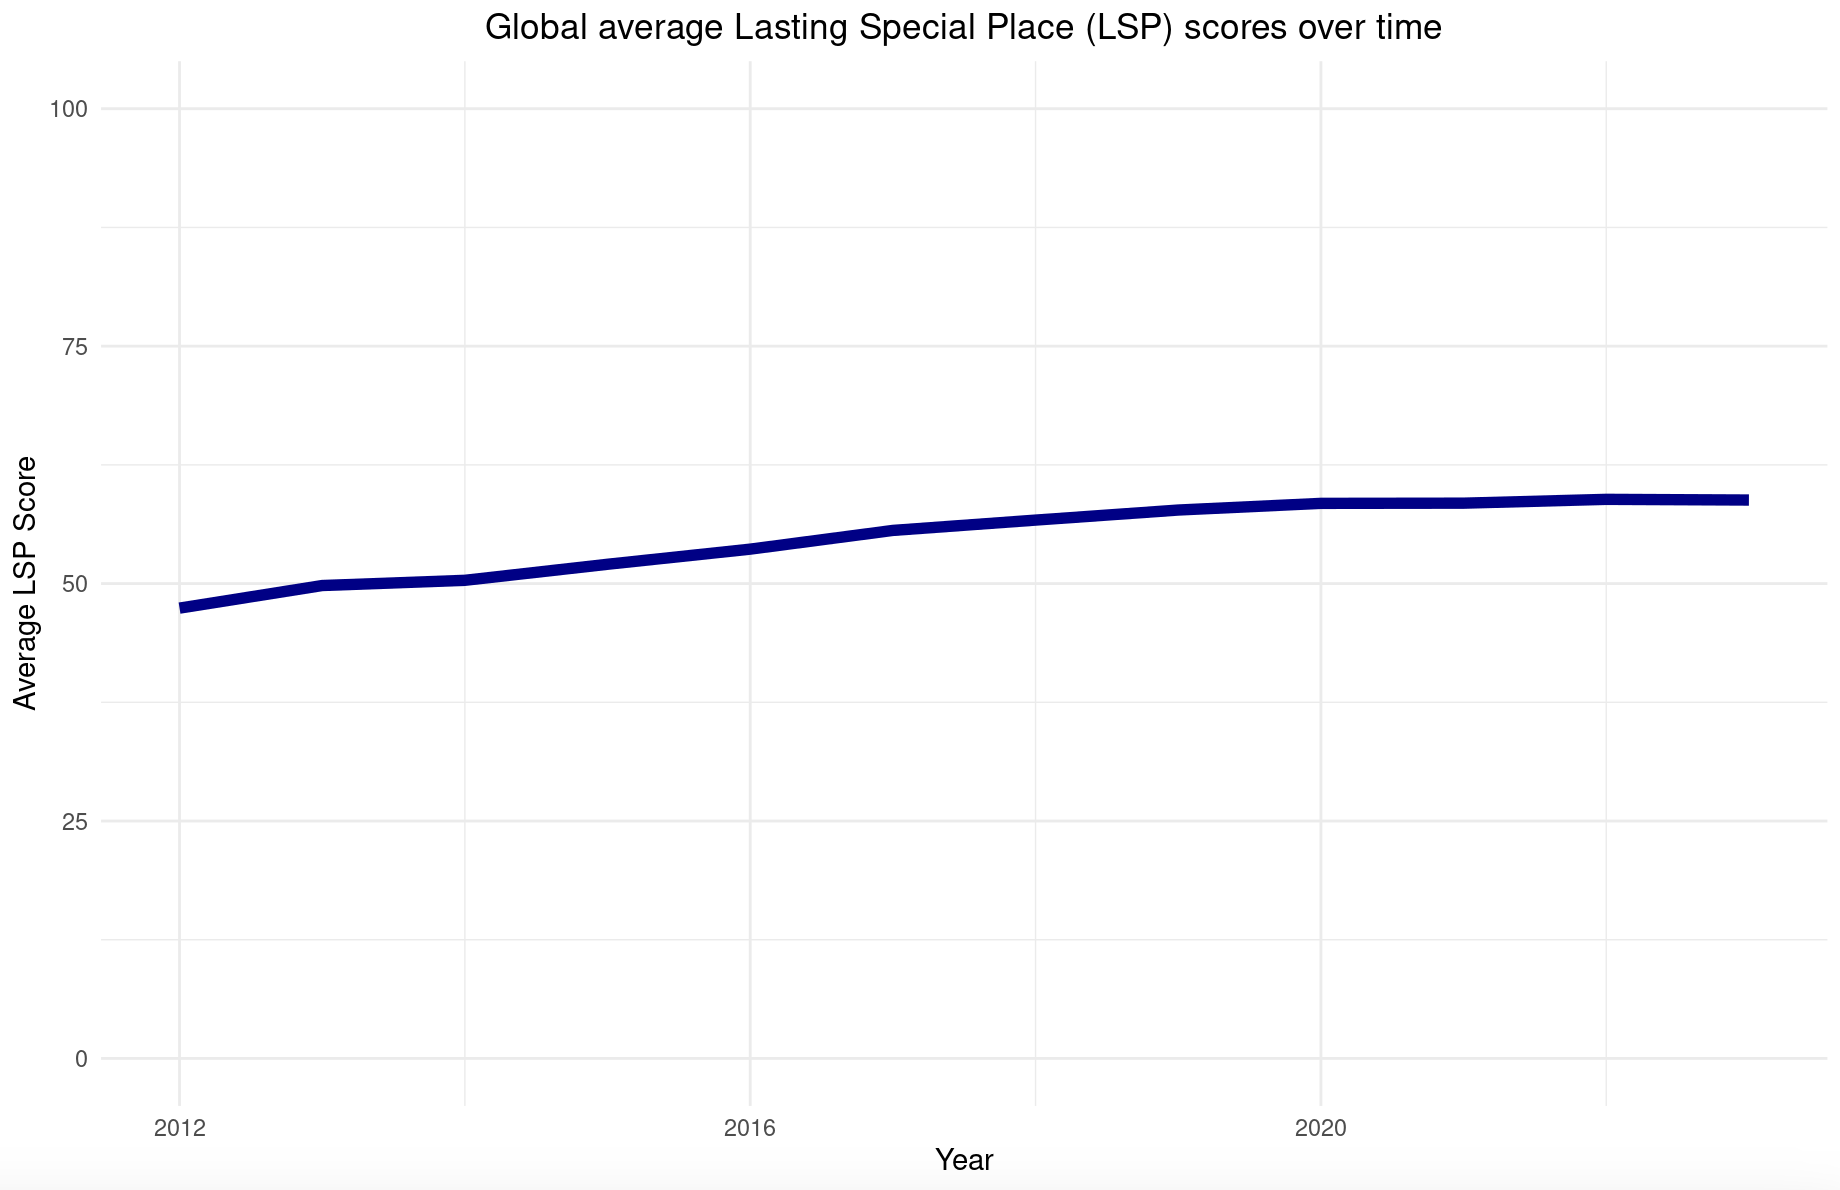
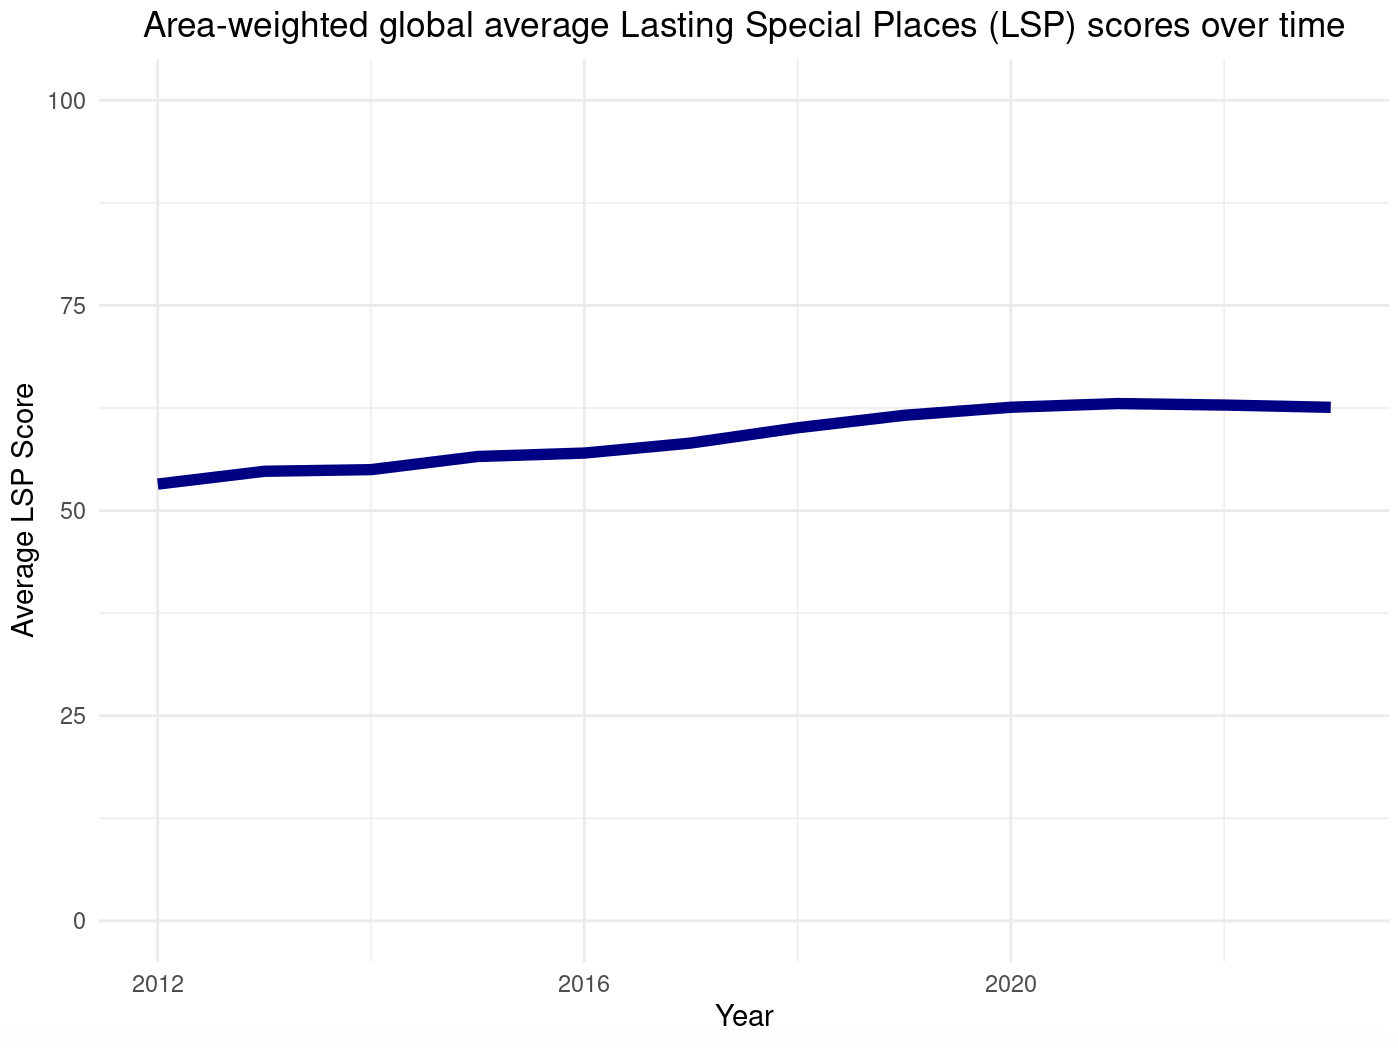
edit lsp blog post based on feedback

diff --git a/content/news/lsp_scores.md b/content/news/lsp_scores.md
@@ -1,10 +1,10 @@
 ---
 title: "What might increases in Lasting Special Place scores mean for the environment?"
 name: "What increasing Lasting Special Places scores mean"
-bg_image: "/images/banners/beach.jpg"
-card_image: "/images/lsp_scores_blog/lsp_scores_graph.png"
+bg_image: "/images/banners/lake.jpg"
+card_image: "/images/lsp_scores_blog/icon_color-circle_sense-of-place.png"
 preview_text: ""
-date: 2023-09-06
+date: 2023-09-14
 author: "Erika Egg"
 menu:
   main:
@@ -17,43 +17,48 @@ menu:
 
 {{<newsHead>}}
 
-The Lasting Special Places (LSP) sub-goal of the Sense of Place goal within the Ocean Health Index (OHI) aims to quantify “how well we are protecting the locations that contribute to marine-related cultural identity” [(OHI, n.d., para. 1)]( https://oceanhealthindex.org/global-scores/goal-scores/sense-of-place/lasting-special-places/). We look at that in terms of meeting a threshold of protection: 30% of coastal area protected for a given OHI region translates to a score of 100 for this sub-goal, with coastal area defined as the combined area 3 nautical miles (nm) offshore and 1 kilometer (km) inland along the OHI region’s coast. The LSP sub-goal stands out in the OHI assessment because it is the only score that has almost exclusively increased over the years (as protected areas typically are not lost). The graph below depicts the change in the global score (the average across the score dimension across OHI regions) over time.
+The Ocean Health Index's (OHI) [Lasting Special Places (LSP) sub-goal]( https://oceanhealthindex.org/global-scores/goal-scores/sense-of-place/lasting-special-places/) within the [Sense of Place goal](https://oceanhealthindex.org/global-scores/goal-scores/sense-of-place/) aims to quantify “how well we are protecting the locations that contribute to marine-related cultural identity” [(OHI, n.d., para. 1)]( https://oceanhealthindex.org/global-scores/goal-scores/sense-of-place/lasting-special-places/). We look at that in terms of meeting a threshold of protection: 30% of coastal area protected for a given OHI region translates to a score of 100 for this sub-goal, with coastal area defined as the combined area 3 nautical miles (nm) offshore and 1 kilometer (km) inland along the OHI region’s coast. This means that "protected areas" are an integral part in calculating the scores for the LSP goal. The LSP sub-goal stands out in the OHI assessment because it is the one of the only scores that has almost exclusively increased over the years (as protected areas typically are not lost). The graph below depicts the change in the global score (Index) over time.
 
 ![](/images/lsp_scores_blog/lsp_scores_graph.png)
 
 <div style="text-align: center; font-size: 0.7em;">
-Data from the <a href = "https://github.com/OHI-Science/ohi-global/blob/draft/eez/scores.csv">ohi-global GitHub repository</a>, from September 8, 2023.
+Data from the <a href = "https://github.com/OHI-Science/ohi-global/blob/d6280d8537144b41883747fca39a971dc2b20d61/yearly_results/global2023/Results/data/area_weighted_average_scores_by_year_and_goal">ohi-global GitHub repository</a>, from September 14, 2023.
 </div>
 
-This means that we are continuing to approach the global movement’s goal of having at least 30% of the blue planet protected by 2030, supporting environmental health and sustainability [(World Ocean Day, n.d.)](https://worldoceanday.org/take-action/conservation-action-focus/). While this is very positive news, people may be left wondering: what exactly counts as “protected areas,” which are an integral part in calculating the scores for the LSP goal? How effective are these “protected areas” at creating environmental benefits? 
+This means that we are continuing to approach the global movement’s goal of having at least 30% of oceans and 30% of land protected by 2030, supporting environmental health and sustainability [(Einhorn, 2022)](https://www.nytimes.com/2022/12/19/climate/biodiversity-cop15-montreal-30x30.html). While this is positive news, people may be left wondering: what exactly counts as “protected areas"? How effective are these “protected areas” at creating environmental benefits? 
 
 International Union for Conservation of Nature (IUCN) considers a “protected area” a “clearly defined geographical space, recognised, dedicated and managed, through legal or other effective means, to achieve the long term conservation of nature with associated ecosystem services and cultural values” [(IUCN Definition, 2008, as cited in IUCN, n.d., under heading “What are effective protected areas”)](https://www.iucn.org/our-work/topic/effective-protected-areas). This can include “national parks, wilderness areas, community conserved areas, nature reserves and so on” [(IUCN, n.d., under heading “About effective protected areas”)](https://www.iucn.org/our-work/topic/effective-protected-areas). Marine protected areas (MPAs), specifically, can include sites such as “marine parks, marine conservation zones, marine reserves, marine sanctuaries, and no-take zones” [(National Geographic, n.d., para. 3)](https://education.nationalgeographic.org/resource/importance-marine-protected-areas/). 
 
-Protected areas in general have been considered to assist with global biodiversity retention, but it is unclear how much they protect from local extinctions in their current state [(Williams et al., 2022)](https://doi.org/10.1073/pnas.2200118119). In addition, they are often not big enough, lack enough suitable habitat, and/or lack proper connections to provide resilience for various species. 
+Protected areas in general have been considered to assist with global biodiversity retention, but how much they protect from local extinctions in their current state is unclear [(Williams et al., 2022)](https://doi.org/10.1073/pnas.2200118119). They are often not big enough, lack enough suitable habitat, and/or lack proper connections to provide resilience for various species.
 
-MPAs have levels of protection: fully protected areas prevent all extractive activities, strongly protected areas prevent commercial extractive activities and allow only some recreational extractive activities, and partially protected areas (the most common level of protection) are increasingly more lenient [(Grorud-Colvert & Lubchenco, 2017)](https://theconversation.com/momentum-grows-for-ocean-preserves-how-well-do-they-work-65625). MPAs can lead to increases in marine biomass, greater resilience in response to environmental change, and increases in fish abundance, which can also assist areas external to the MPA. Partially protected areas are much less likely to show these benefits to the degree of fully or strongly protected areas. 
+MPAs can lead to increases in marine biomass, greater resilience in response to environmental change, and increases in fish abundance, which can also assist areas external to the MPA [(Grorud-Colvert & Lubchenco, 2017)](https://theconversation.com/momentum-grows-for-ocean-preserves-how-well-do-they-work-65625). MPAs demonstrate these benefits most when they are large, are older, have strong enforcement, are isolated by depth of water or sand, and prevent extractive activities [(Edgar et al., 2014)](https://doi.org/10.1038/nature13022). They have different levels of protection: fully protected areas prevent all extractive activities, strongly protected areas prevent commercial extractive activities and allow only some recreational extractive activities, and partially protected areas (the most common level of protection) are increasingly more lenient [(Grorud-Colvert & Lubchenco, 2017)](https://theconversation.com/momentum-grows-for-ocean-preserves-how-well-do-they-work-65625). Partially protected areas are much less likely to show benefits to the degree of fully or strongly protected areas. 
 
-Further, MPAs often cause fishing effort to move from the protected area to other areas or result in the increased use of terrestrial environments for food production (often with higher ecological impacts) [(Hilborn, 2017)](https://doi.org/10.1093/icesjms/fsx068). It has been claimed that “MPAs only protect the ocean from legal, regulated fishing,” they most benefit areas experiencing high fishing pressure, and that other forms of fisheries management should be used before MPAs when possible [(p. 1161)](https://doi.org/10.1093/icesjms/fsx068). The measurement of the effectiveness of MPAs also relies on evaluation; however, “adaptive management studies that incorporate monitoring data, let alone adequate data on the appropriate time scales for ascertaining responses to management, are lacking” [(Nickols et al., 2019, p. 2383)](https://doi.org/10.1111/1365-2664.13463). Overall, MPAs often do not have the proper levels and kinds of protection and management to provide environmental benefits to the most useful extent. 
+Further, MPAs often cause fishing effort to move from the protected area to other areas or result in the increased use of terrestrial environments for food production (often with higher ecological impacts) [(Hilborn, 2017)](https://doi.org/10.1093/icesjms/fsx068). It has been claimed that “MPAs only protect the ocean from legal, regulated fishing,” that they most benefit areas experiencing high fishing pressure, and that other forms of fisheries management should be used before MPAs when possible [(Hilborn, 2017, p. 1161)](https://doi.org/10.1093/icesjms/fsx068). The measurement of the effectiveness of MPAs also relies on evaluation; however, “adaptive management studies that incorporate monitoring data, let alone adequate data on the appropriate time scales for ascertaining responses to management, are lacking” [(Nickols et al., 2019, p. 2383)](https://doi.org/10.1111/1365-2664.13463). Overall, MPAs often do not have the proper levels and kinds of protection and management to provide environmental benefits to the most useful extent. 
 
-While reaching the global protection goal of marine areas would be beneficial, how beneficial it is depends on how we implement MPAs and other protected areas and on what other strategies are used in combination with these, not just the total area protected.
+While reaching the global protection goal of marine areas would be beneficial, how beneficial it is depends on how we implement MPAs and other protected areas and on what other strategies are used in combination with these, not just the total area protected. To put things in perspective, 7.2% of the global ocean is designated as MPA zones, but only 2.9% is known to be highly or fully protected, so, despite seeing increases in protected areas over time, there is still improvement to be had to both meet the 30% goal and have the level of protection needed for the most beneficial impacts [(Marine Protection Atlas, n.d., under heading "Global marine fishing protection")](https://mpatlas.org).
 
 ## References
+1. **Edgar, G. J., Stuart-Smith, R. D., Willis, T. J., Kininmonth, S., Baker, S. C., Banks, S., Barrett, N. S., Becerro, M. A., Bernard, A. T. F., Berkhout, J., Buxton, C. D., Campbell, S. J., Cooper, A. T., Davey, M., Edgar, S. C., Försterra, G., Galván, D. E., Irigoyen, A. J., Kushner, D. J., & Moura, R.** (2014). [*Global conservation outcomes depend on marine protected areas with five key features*](https://doi.org/10.1038/nature13022). Nature, 506(7487), 216–220.
 
-1. **Grorud-Colvert, K., & Lubchenco, J.** (2017, January 4). [*Momentum grows for ocean preserves. How well do they work?*](https://theconversation.com/momentum-grows-for-ocean-preserves-how-well-do-they-work-65625). The Conversation.
-  
-2. **Hilborn, R.** (2017). [Are MPAs effective?](https://doi.org/10.1093/icesjms/fsx068). *ICES Journal of Marine Science, 75*(3), 1160–1162.
-  
-3. **International Union for Conservation of Nature (IUCN).** (n.d.). [*Effective protected areas*](https://www.iucn.org/our-work/topic/effective-protected-areas). Retrieved September 8, 2023.
-  
-4. **National Geographic.** (n.d.). [*The Importance of Marine Protected Areas (MPAs)*](https://education.nationalgeographic.org/resource/importance-marine-protected-areas/). Retrieved September 8, 2023.
-  
-5. **Nickols, K. J., White, J. W., Malone, D., Carr, M. H., Starr, R. M., Baskett, M. L., Hastings, A., & Botsford, L. W.** (2019). [Setting ecological expectations for adaptive management of marine protected areas](https://doi.org/10.1111/1365-2664.13463). *Journal of Applied Ecology, 56*(10), 2376–2385.
+1. **Einhorn, C.** (2022, December 20). [*Nearly Every Country Signs On to a Sweeping Deal to Protect Nature*](https://www.nytimes.com/2022/12/19/climate/biodiversity-cop15-montreal-30x30.html). The New York Times.
 
-6. **Ocean Health Index (OHI).** (n.d.). [*Sub-Goal: Lasting Special Places*](https://oceanhealthindex.org/global-scores/goal-scores/sense-of-place/lasting-special-places/). Retrieved September 8, 2023.
+2. **Grorud-Colvert, K., & Lubchenco, J.** (2017, January 4). [*Momentum grows for ocean preserves. How well do they work?*](https://theconversation.com/momentum-grows-for-ocean-preserves-how-well-do-they-work-65625). The Conversation.
+  
+3. **Hilborn, R.** (2017). [Are MPAs effective?](https://doi.org/10.1093/icesjms/fsx068). *ICES Journal of Marine Science, 75*(3), 1160–1162.
+  
+4. **International Union for Conservation of Nature (IUCN).** (n.d.). [*Effective protected areas*](https://www.iucn.org/our-work/topic/effective-protected-areas). Retrieved September 8, 2023.
 
-7. **Williams, D. R., Rondinini, C., & Tilman, D.** (2022). [Global protected areas seem insufficient to safeguard half of the world’s mammals from human-induced extinction](https://doi.org/10.1073/pnas.2200118119). *Proceedings of the National Academy of Sciences, 119*(24).
+5. **Marine Protection Atlas.** (n.d.). [*The Marine Protection Atlas*](https://mpatlas.org). Retrieved September 14, 2023.
+  
+6. **National Geographic.** (n.d.). [*The Importance of Marine Protected Areas (MPAs)*](https://education.nationalgeographic.org/resource/importance-marine-protected-areas/). Retrieved September 8, 2023.
+  
+7. **Nickols, K. J., White, J. W., Malone, D., Carr, M. H., Starr, R. M., Baskett, M. L., Hastings, A., & Botsford, L. W.** (2019). [Setting ecological expectations for adaptive management of marine protected areas](https://doi.org/10.1111/1365-2664.13463). *Journal of Applied Ecology, 56*(10), 2376–2385.
 
-8. **World Ocean Day.** (n.d.). [*Conservation Action Focus*](https://worldoceanday.org/take-action/conservation-action-focus/). Retrieved September 8, 2023.
+8. **Ocean Health Index (OHI).** (n.d.). [*Sub-Goal: Lasting Special Places*](https://oceanhealthindex.org/global-scores/goal-scores/sense-of-place/lasting-special-places/). Retrieved September 8, 2023.
+
+9. **Williams, D. R., Rondinini, C., & Tilman, D.** (2022). [Global protected areas seem insufficient to safeguard half of the world’s mammals from human-induced extinction](https://doi.org/10.1073/pnas.2200118119). *Proceedings of the National Academy of Sciences, 119*(24).
+
+
 
 Code for the visualization in this blog post can be found in the [website GitHub repository](https://github.com/OHI-Science/OHI-website/blob/dev/scripts/lsp_blogpost_visualization.Rmd).
 
